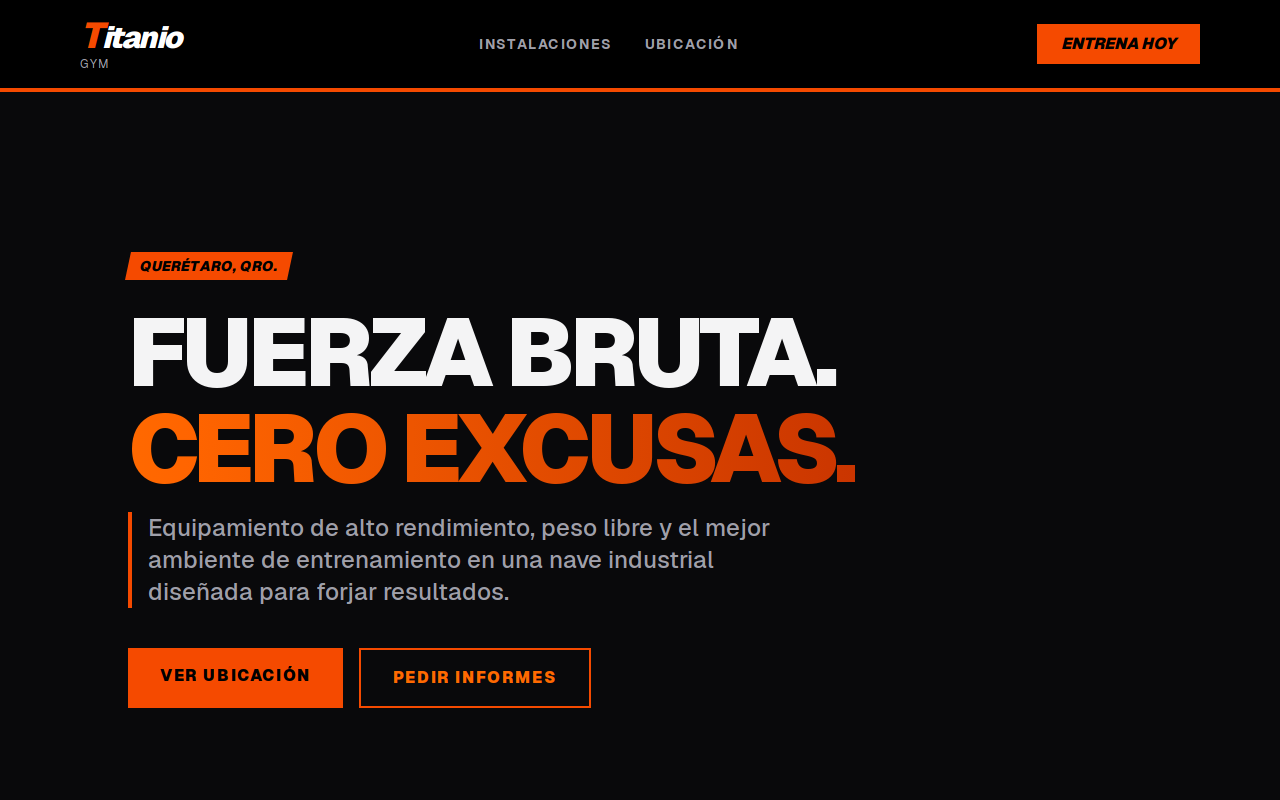
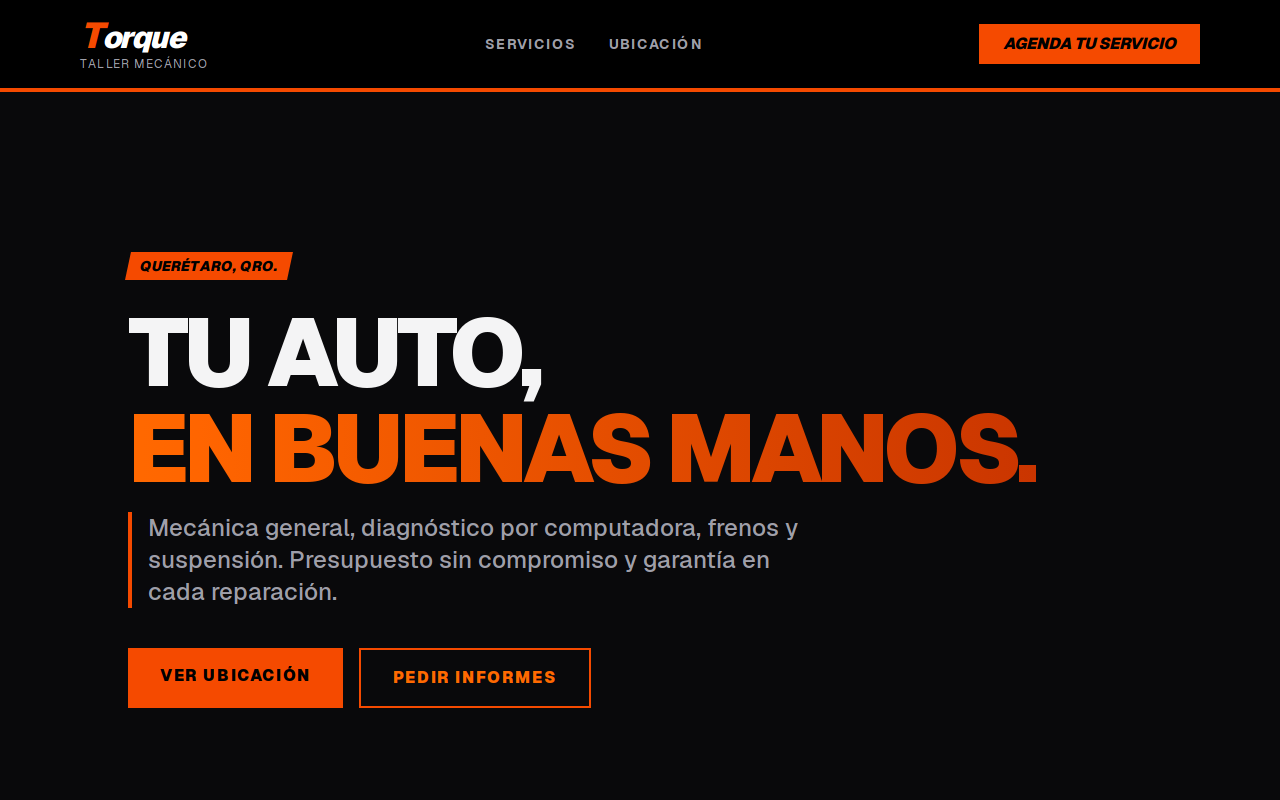
Gráficas sin desbordarse en celular y plantilla de taller mecánico
- Tienda y Membresías: las tarjetas de la cuadrícula ya no se salen de la
  pantalla en celular (la gráfica las ensanchaba a 464 px en 390 px).
- Gráfica sin movimientos: muestra un aviso en lugar del eje $0–$4.
- Orange Industrial pasa a ser la demo de un taller mecánico ("Torque Taller
  Mecánico") con textos de taller; las landings reales que la usan conservan
  sus textos. Catálogo y captura actualizados.

diff --git a/src/app/(marketing)/plantillas/orange-industrial/page.tsx b/src/app/(marketing)/plantillas/orange-industrial/page.tsx
@@ -5,48 +5,64 @@ import { useAnalytics } from "@/hooks/use-analytics";
 import type { LandingContentByTemplate } from "@/lib/landings/model";
 
 const DEMO_NEGOCIO: LandingContentByTemplate["orange-industrial"] = {
-  nombre: "Titanio Gym",
-  tipo: "Gimnasio Industrial",
+  nombre: "Torque Taller Mecánico",
+  tipo: "Taller Mecánico",
   ciudad: "Querétaro, Qro.",
-  slogan: "Fuerza Bruta.",
-  slogan2: "Cero Excusas.",
+  slogan: "Tu auto,",
+  slogan2: "en buenas manos.",
   descripcion:
-    "Equipamiento de alto rendimiento, peso libre y el mejor ambiente de entrenamiento en una nave industrial diseñada para forjar resultados.",
+    "Mecánica general, diagnóstico por computadora, frenos y suspensión. Presupuesto sin compromiso y garantía en cada reparación.",
   whatsapp: "524428367627",
   direccion: "Calle Industria 45, Centro, Querétaro, Qro.",
   maps_embed: "https://maps.google.com/maps?q=Queretaro&output=embed",
   horarios: [
-    { dia: "Lunes a Viernes", hora: "6:00 am – 10:00 pm" },
-    { dia: "Sábado", hora: "7:00 am – 3:00 pm" },
-    { dia: "Domingo", hora: "8:00 am – 1:00 pm" },
+    { dia: "Lunes a Viernes", hora: "8:30 am – 6:30 pm" },
+    { dia: "Sábado", hora: "9:00 am – 2:00 pm" },
+    { dia: "Domingo", hora: "Cerrado" },
   ],
   zonas: [
     {
-      nombre: "Planta Baja",
-      items: [
-        "Amplia zona de peso libre",
-        "Aparatos de placa para hipertrofia",
-        "Estructuras sólidas tipo industrial",
-        "Espacio abierto y ventilado",
-      ],
+      nombre: "Mecánica",
+      items: ["Afinación y cambio de aceite", "Frenos y suspensión", "Clutch y transmisión", "Sistema de enfriamiento"],
     },
     {
-      nombre: "Mezzanine Cardio",
+      nombre: "Diagnóstico",
       items: [
-        "Zona elevada exclusiva para cardio",
-        "Caminadoras y elípticas",
-        "Bicicletas estáticas",
-        "Vista panorámica al área de pesas",
+        "Escáner por computadora",
+        "Revisión eléctrica",
+        "Revisión antes de carretera",
+        "Presupuesto sin compromiso",
       ],
     },
   ],
-  precio_banner: "Pregunta por nuestras membresías accesibles",
-  precio_sub: "Sin inscripciones forzosas · Planes desde $400/mes",
+  precio_banner: "Cotiza tu servicio sin compromiso",
+  precio_sub: "Afinación desde $890 · Garantía en cada reparación",
   imagenes: [],
 };
 
+// Textos fijos de la plantilla. Todavía no son editables (no están en el contenido de la landing, y agregarlos
+// rompería la validación de las landings ya guardadas): las landings reales conservan los de gimnasio y la demo
+// del catálogo usa los de taller.
+const TEXTOS_GIMNASIO = {
+  mensajeWhatsapp: "quiero información sobre membresías",
+  enlaceSeccion: "Instalaciones",
+  botonNav: "Entrena Hoy",
+  tituloSeccion: "Nuestras Zonas",
+  botonPrecios: "Consultar Precios",
+  tituloContacto: "¿Listo para empezar?",
+};
+
+const TEXTOS_TALLER: typeof TEXTOS_GIMNASIO = {
+  mensajeWhatsapp: "quiero cotizar un servicio",
+  enlaceSeccion: "Servicios",
+  botonNav: "Agenda tu servicio",
+  tituloSeccion: "Nuestros Servicios",
+  botonPrecios: "Pedir Cotización",
+  tituloContacto: "¿Tu auto necesita servicio?",
+};
+
 export default function OrangeIndustrialTemplate({
-  business = DEMO_NEGOCIO,
+  business,
   empresaId,
   landingId,
 }: {
@@ -54,9 +70,10 @@ export default function OrangeIndustrialTemplate({
   empresaId?: number;
   landingId?: string;
 } = {}) {
-  const NEGOCIO = business;
+  const NEGOCIO = business ?? DEMO_NEGOCIO;
+  const TEXTOS = business ? TEXTOS_GIMNASIO : TEXTOS_TALLER;
   useAnalytics(empresaId, landingId);
-  const wa = `https://wa.me/${NEGOCIO.whatsapp}?text=Hola%20${encodeURIComponent(NEGOCIO.nombre)},%20quiero%20información%20sobre%20membresías`;
+  const wa = `https://wa.me/${NEGOCIO.whatsapp}?text=${encodeURIComponent(`Hola ${NEGOCIO.nombre}, ${TEXTOS.mensajeWhatsapp}`)}`;
 
   return (
     <div className="bg-zinc-950 text-white font-sans min-h-screen selection:bg-orange-500 selection:text-black">
@@ -72,7 +89,7 @@ export default function OrangeIndustrialTemplate({
           </h1>
           <div className="hidden md:flex space-x-8 text-sm font-bold uppercase tracking-widest text-zinc-400">
             <a href="#instalaciones" className="hover:text-orange-500 transition">
-              Instalaciones
+              {TEXTOS.enlaceSeccion}
             </a>
             <a href="#ubicacion" className="hover:text-orange-500 transition">
               Ubicación
@@ -84,7 +101,7 @@ export default function OrangeIndustrialTemplate({
             rel="noopener noreferrer"
             className="bg-orange-600 text-black px-6 py-2 font-black uppercase italic hover:bg-orange-500 transition transform hover:-skew-x-12"
           >
-            Entrena Hoy
+            {TEXTOS.botonNav}
           </a>
         </div>
       </nav>
@@ -131,7 +148,7 @@ export default function OrangeIndustrialTemplate({
         <div className="max-w-6xl mx-auto">
           <div className="flex items-center gap-4 mb-16">
             <div className="h-1 w-12 bg-orange-600" />
-            <h2 className="text-3xl md:text-5xl font-black uppercase tracking-tight">Nuestras Zonas</h2>
+            <h2 className="text-3xl md:text-5xl font-black uppercase tracking-tight">{TEXTOS.tituloSeccion}</h2>
           </div>
           <div className="grid md:grid-cols-2 gap-8">
             {NEGOCIO.zonas.map((zona, zi) => (
@@ -163,7 +180,7 @@ export default function OrangeIndustrialTemplate({
           rel="noopener noreferrer"
           className="mt-6 inline-block bg-black text-white font-black uppercase tracking-widest px-8 py-4 hover:bg-zinc-900 transition text-sm"
         >
-          Consultar Precios
+          {TEXTOS.botonPrecios}
         </a>
       </section>
 
@@ -229,7 +246,7 @@ export default function OrangeIndustrialTemplate({
           {/* Contacto + Mapa */}
           <div className="space-y-6">
             <div className="bg-zinc-900 border border-zinc-800 p-8">
-              <h3 className="text-2xl font-black uppercase mb-4 text-white">¿Listo para empezar?</h3>
+              <h3 className="text-2xl font-black uppercase mb-4 text-white">{TEXTOS.tituloContacto}</h3>
               <p className="text-zinc-400 mb-6">
                 Visítanos directamente o contáctanos por WhatsApp para más información.
               </p>

diff --git a/src/lib/landings/model.ts b/src/lib/landings/model.ts
@@ -203,43 +203,43 @@ export const DEFAULT_LANDING_CONTENT: LandingContentByTemplate = {
     imagenes: [],
   },
   "orange-industrial": {
-    nombre: "Titanio Gym",
-    tipo: "Gimnasio Industrial",
+    nombre: "Torque Taller Mecánico",
+    tipo: "Taller Mecánico",
     ciudad: "Querétaro, Qro.",
-    slogan: "Fuerza Bruta.",
-    slogan2: "Cero Excusas.",
+    slogan: "Tu auto,",
+    slogan2: "en buenas manos.",
     descripcion:
-      "Equipamiento de alto rendimiento, peso libre y el mejor ambiente de entrenamiento en una nave industrial diseñada para forjar resultados.",
+      "Mecánica general, diagnóstico por computadora, frenos y suspensión. Presupuesto sin compromiso y garantía en cada reparación.",
     whatsapp: "524428367627",
     direccion: "Calle Industria 45, Centro, Querétaro, Qro.",
     maps_embed: "https://maps.google.com/maps?q=Queretaro&output=embed",
     horarios: [
-      { dia: "Lunes a Viernes", hora: "6:00 am – 10:00 pm" },
-      { dia: "Sábado", hora: "7:00 am – 3:00 pm" },
-      { dia: "Domingo", hora: "8:00 am – 1:00 pm" },
+      { dia: "Lunes a Viernes", hora: "8:30 am – 6:30 pm" },
+      { dia: "Sábado", hora: "9:00 am – 2:00 pm" },
+      { dia: "Domingo", hora: "Cerrado" },
     ],
     zonas: [
       {
-        nombre: "Planta Baja",
+        nombre: "Mecánica",
         items: [
-          "Amplia zona de peso libre",
-          "Aparatos de placa para hipertrofia",
-          "Estructuras sólidas tipo industrial",
-          "Espacio abierto y ventilado",
+          "Afinación y cambio de aceite",
+          "Frenos y suspensión",
+          "Clutch y transmisión",
+          "Sistema de enfriamiento",
         ],
       },
       {
-        nombre: "Mezzanine Cardio",
+        nombre: "Diagnóstico",
         items: [
-          "Zona elevada exclusiva para cardio",
-          "Caminadoras y elípticas",
-          "Bicicletas estáticas",
-          "Vista panorámica al área de pesas",
+          "Escáner por computadora",
+          "Revisión eléctrica",
+          "Revisión antes de carretera",
+          "Presupuesto sin compromiso",
         ],
       },
     ],
-    precio_banner: "Pregunta por nuestras membresías accesibles",
-    precio_sub: "Sin inscripciones forzosas · Planes desde $400/mes",
+    precio_banner: "Cotiza tu servicio sin compromiso",
+    precio_sub: "Afinación desde $890 · Garantía en cada reparación",
     imagenes: [],
   },
   "warm-wood": {

diff --git a/src/app/(main)/dashboard/_components/modulo/dinero-chart.tsx b/src/app/(main)/dashboard/_components/modulo/dinero-chart.tsx
@@ -10,6 +10,15 @@ import { formatoDinero } from "@/lib/formato";
 export function DineroChart({ data, serie }: { data: { etiqueta: string; valor: number }[]; serie: string }) {
   const chartConfig = { valor: { label: serie, color: "var(--primary)" } } satisfies ChartConfig;
 
+  // Sin movimientos, el eje quedaría en $0–$4 y parecería un error: mejor un aviso.
+  if (data.every((row) => row.valor === 0)) {
+    return (
+      <div className="flex h-56 items-center justify-center rounded-lg border border-dashed text-center text-muted-foreground text-sm">
+        Todavía no hay {serie.toLowerCase()} en este periodo.
+      </div>
+    );
+  }
+
   return (
     <>
       <ChartContainer className="h-56 w-full" config={chartConfig}>

diff --git a/src/app/(marketing)/plantillas/catalogo.ts b/src/app/(marketing)/plantillas/catalogo.ts
@@ -19,8 +19,8 @@ export const PLANTILLAS: {
   {
     slug: "orange-industrial",
     nombre: "Orange Industrial",
-    ideal: "Gimnasios · Talleres · Autos",
-    desc: "Agresivo e industrial. Naranja sobre negro, tipografía bold. Para negocios que hablan de fuerza.",
+    ideal: "Talleres · Autos · Refaccionarias",
+    desc: "Industrial y directo. Naranja sobre negro, tipografía bold. Para negocios que transmiten fuerza y confianza.",
     acento: "bg-orange-600",
   },
   {

diff --git a/src/app/(main)/dashboard/membresias/page.tsx b/src/app/(main)/dashboard/membresias/page.tsx
@@ -119,7 +119,7 @@ export default async function MembresiasResumenPage({ searchParams }: { searchPa
         ))}
       </div>
 
-      <div className="grid gap-6 xl:grid-cols-5">
+      <div className="grid grid-cols-1 gap-6 xl:grid-cols-5">
         <section className="space-y-3 rounded-xl border bg-card p-4 md:p-6 xl:col-span-3">
           <div>
             <h2 className="font-semibold text-lg">Ingresos por mes</h2>

diff --git a/src/app/(main)/dashboard/tienda/page.tsx b/src/app/(main)/dashboard/tienda/page.tsx
@@ -128,7 +128,7 @@ export default async function TiendaResumenPage({ searchParams }: { searchParams
         ))}
       </div>
 
-      <div className="grid gap-6 xl:grid-cols-5">
+      <div className="grid grid-cols-1 gap-6 xl:grid-cols-5">
         <section className="space-y-3 rounded-xl border bg-card p-4 md:p-6 xl:col-span-3">
           <div>
             <h2 className="font-semibold text-lg">Ventas por día</h2>

diff --git a/src/app/(main)/dashboard/default/_components/inicio-superadmin.tsx b/src/app/(main)/dashboard/default/_components/inicio-superadmin.tsx
@@ -66,7 +66,7 @@ export async function InicioSuperadmin() {
         ))}
       </div>
 
-      <div className="grid gap-6 xl:grid-cols-5">
+      <div className="grid grid-cols-1 gap-6 xl:grid-cols-5">
         <section className="space-y-3 rounded-xl border bg-card p-4 md:p-6 xl:col-span-3">
           <div>
             <h2 className="font-semibold text-lg">Cobranza próxima</h2>

diff --git a/ARQUITECTURA.md b/ARQUITECTURA.md
@@ -156,6 +156,13 @@ Objetivo: cobrar las mensualidades con cargo automático a tarjeta en lugar de p
   choca con la migración a VPS: decidir el proveedor de auth (ver "Pendiente: salir de Supabase y
   Vercel") antes de construirlo.
 
+### Plantillas de landing
+
+- Hacer editables los textos fijos de cada plantilla (botones, títulos de sección, mensaje de WhatsApp).
+  Hoy Orange Industrial muestra textos de gimnasio en las landings reales y de taller solo en la demo
+  del catálogo. Agregarlos al contenido exige que `isLandingContent` acepte campos opcionales (hoy
+  compara las llaves exactas y las landings guardadas dejarían de validar).
+
 ### Funciones que sostienen el precio
 
 Comparado con la competencia (software de gym y agendas de $400 a $2,000 MXN/mes), estas funciones
